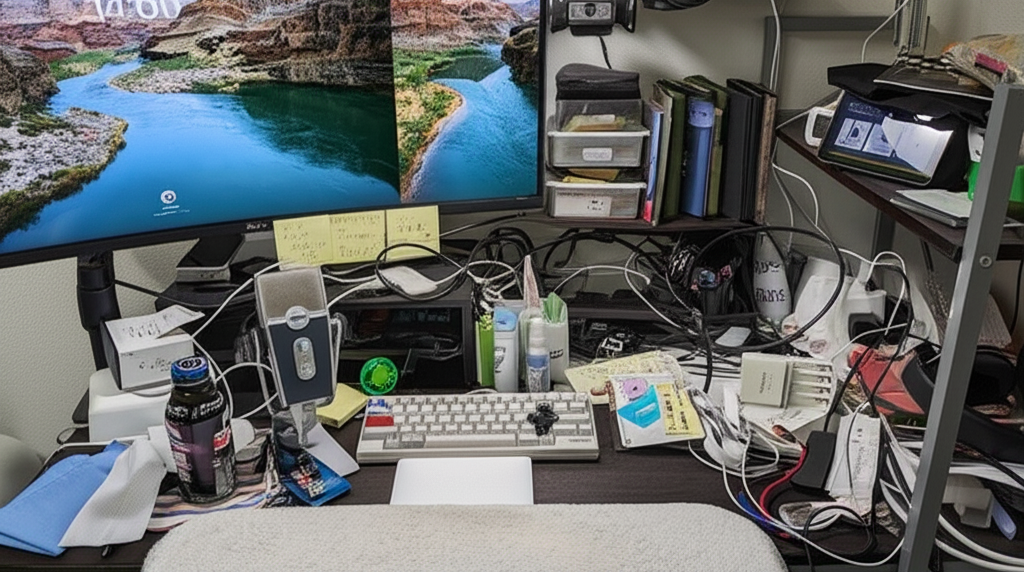
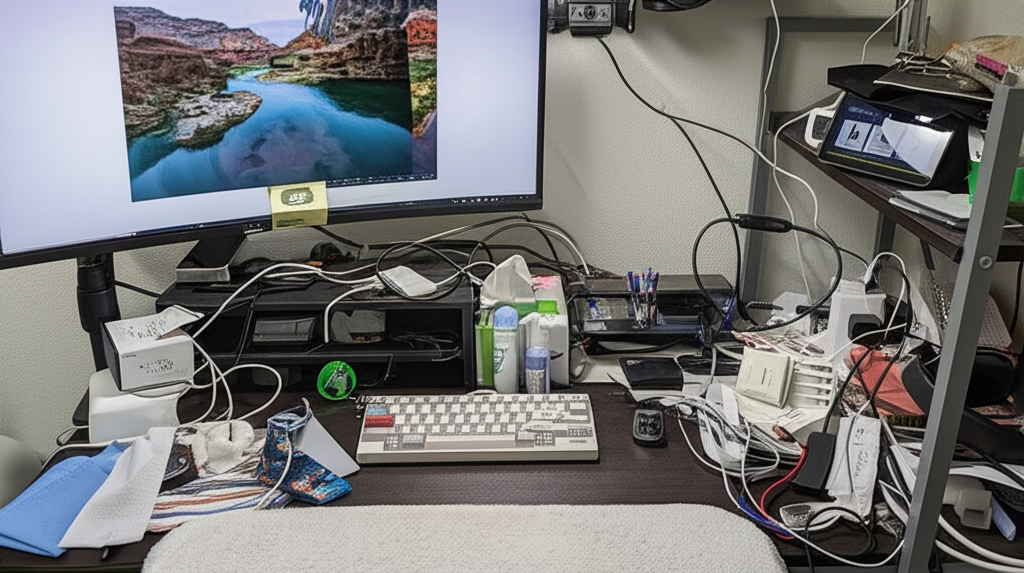
add: func

diff --git a/.ipynb_checkpoints/test-checkpoint.py b/.ipynb_checkpoints/test-checkpoint.py
@@ -1,0 +1,68 @@
+import os
+import json
+from dotenv import load_dotenv
+import google.generativeai as genai
+from PIL import Image
+from io import BytesIO
+
+# 1. .envからAPIキーを読み込む
+load_dotenv()
+API_KEY = os.getenv("API_KEY")
+if not API_KEY:
+    raise ValueError("API_KEYが設定されていません。.envファイルを確認してください。")
+
+genai.configure(api_key=API_KEY)
+
+# 2. 入力画像を読み込む
+base_image = Image.open('image/img2.png')
+
+# 3. JSON形式の整理整頓指示を読み込んでテキストプロンプトに変換
+with open('instructions.json', 'r', encoding='utf-8') as f:
+    instructions = json.load(f)
+
+def convert_json_to_prompt(data):
+    if isinstance(data, dict) and "tasks" in data:
+        task_descs = []
+        for task in data["tasks"]:
+            action = task.get("action")
+            item = task.get("item", "")
+            if action == "move":
+                src = task.get("from", "")
+                dst = task.get("to", "")
+                task_descs.append(f"{src}にある{item}を{dst}に移動する")
+            elif action in ("store", "put_away", "organize"):
+                loc = task.get("location", "")
+                task_descs.append(f"{item}を{loc}に片付ける")
+        instructions_text = "、".join(task_descs)
+        prompt = f"部屋を整理整頓してください。具体的には、{instructions_text}。"
+    else:
+        prompt = f"部屋を整理整頓してください: {data}"
+    return prompt
+
+prompt_text = convert_json_to_prompt(instructions)
+print("Generated prompt:", prompt_text)
+
+# 4. Geminiモデル呼び出し
+model = genai.GenerativeModel("gemini-2.0-flash-preview-image-generation")
+
+try:
+    response = model.generate_content([prompt_text, base_image])
+except Exception as e:
+    print("Gemini API呼び出し中にエラーが発生しました:", e)
+    exit(1)
+
+# 5. レスポンスから画像データを保存
+generated_image_path = "image/output.png"
+image_saved = False
+
+for part in response.parts:
+    if hasattr(part, "text") and part.text:
+        print("Model text output:", part.text)
+    if hasattr(part, "data") and part.data:
+        output_img = Image.open(BytesIO(part.data))
+        output_img.save(generated_image_path)
+        image_saved = True
+        print(f"Generated image saved to {generated_image_path}")
+
+if not image_saved:
+    print("生成された画像が取得できませんでした。プロンプトを調整してください。")

diff --git a/gemini.py b/gemini.py
@@ -120,4 +120,4 @@ for part in parts:
             print("画像の自動表示に失敗しました:", e)
 
 if not image_saved:
-    print("生成された画像を取得できませんでした。プロンプトや設定を調整してください。")
+    print("生成された画像を取得できませんでした。プロンプトや設定を調整してく

diff --git a/main.go b/main.go
@@ -89,5 +89,7 @@ func handleAnalyzeByGemini(w http.ResponseWriter, r *http.Request) {
 
 	// JSONとしてクライアントに返す
 	w.Header().Set("Content-Type", "application/json")
-	json.NewEncoder(w).Encode(parsed)
+	json.NewEncoder(w).Encode(parsed)	
+
+	
 }
